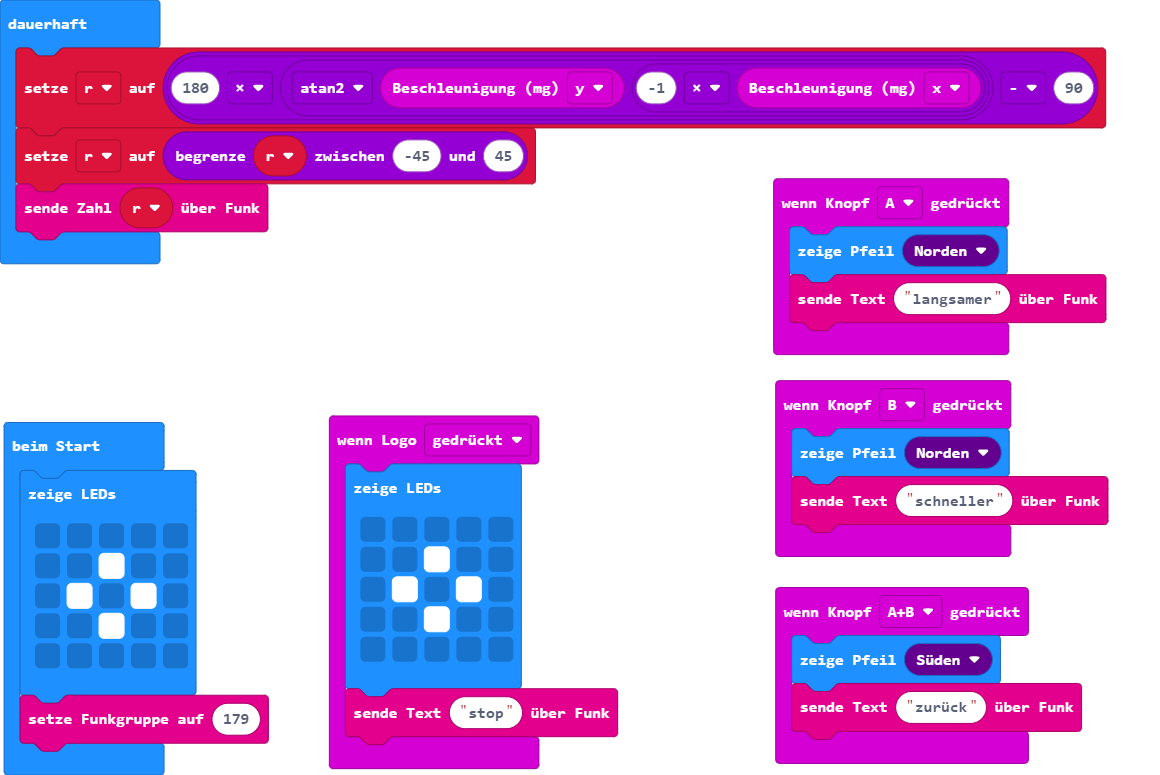
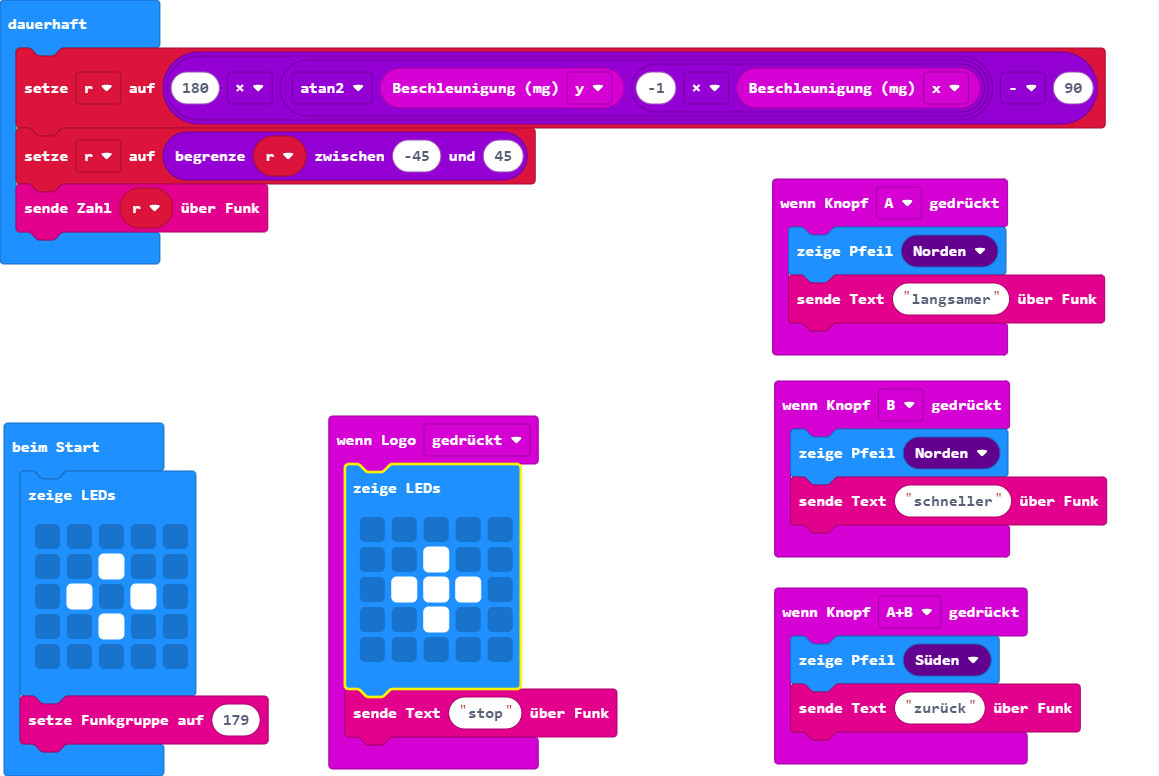
LEDs geändert

diff --git a/main.ts b/main.ts
@@ -2,7 +2,7 @@ input.onLogoEvent(TouchButtonEvent.Pressed, function () {
     basic.showLeds(`
         . . . . .
         . . # . .
-        . # . # .
+        . # # # .
         . . # . .
         . . . . .
         `)
